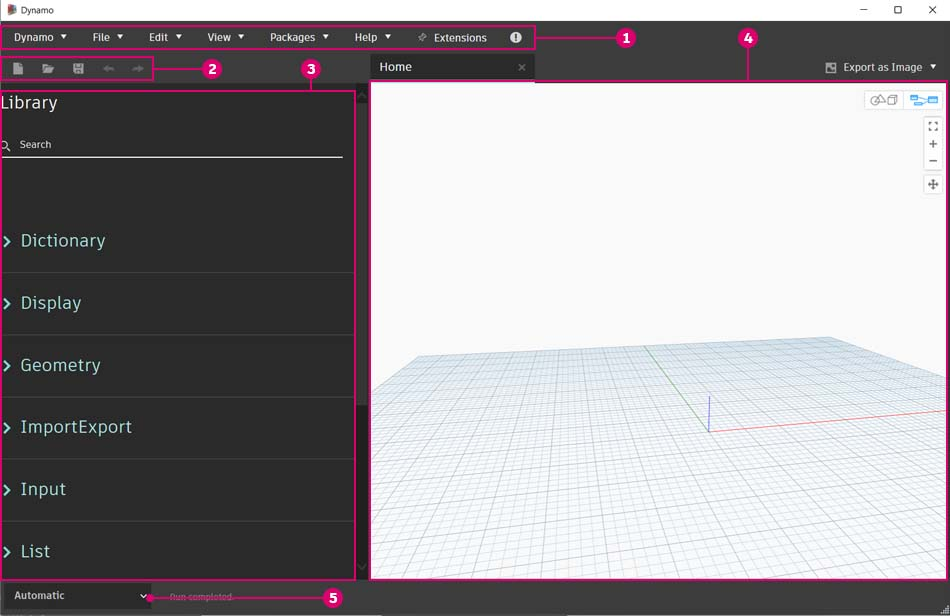
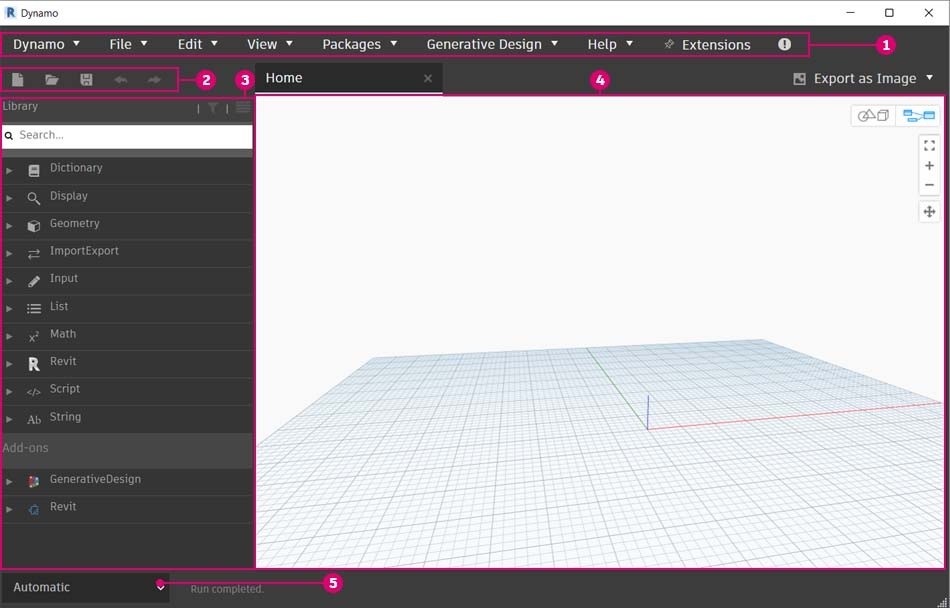
GitBook: [#22] No subject

diff --git a/2-2_the_dynamo_ui/README.md b/2-2_the_dynamo_ui/README.md
@@ -1,8 +1,8 @@
 # User Interface
 
-### UI Overview
+### User Interface Overview
 
-The User Interface (UI) for Dynamo is organized into five main regions. We will briefly cover the overview here and further explain the Workspace and Library in following sections.
+The User Interface (UI) for Dynamo is organized into five main regions. We will briefly cover the overview here and further explain the Workspace and Library in the following sections.
 
 ![](<../.gitbook/assets/user interface - ui (2).jpg>)
 
@@ -14,53 +14,35 @@ The User Interface (UI) for Dynamo is organized into five main regions. We will 
 
 ### Menus
 
-![](<../.gitbook/assets/user interface - menu.jpg>)
-
-_<mark style="color:red;">(Update screenshot when new Dynamo version available in Revit)</mark>_
+![](<../.gitbook/assets/user interface - menu (1).jpg>)
 
 Here are Menus for basic functionality of the Dynamo application. Like most Windows software, the first two menus related to managing files, operations for selection and content editing. The remaining menus are more specific to Dynamo.
 
-#### Settings
+#### Dynamo Menus
 
-From geometric to user settings, these options can be found in the **Settings** menu. Here you can opt in or out for sharing your user data to improve Dynamo as well as define the application's decimal point precision and geometry render quality.
+General info and settings can be found on the **Dynamo** drop down menu.&#x20;
 
-![](../.gitbook/assets/image.png)
+![](<../.gitbook/assets/user interface - dynamo menu.jpg>)
 
-_<mark style="color:red;">(Update screenshot when new Dynamo version available in Revit)</mark>_
-
-> 1. Enabling Reporting - Options for sharing user data to improve Dynamo.
-> 2. Show Run Preview - Preview the execution state of your graph. Nodes scheduled for execution will be highlighted in your graph.
-> 3. Number Format Options - Change the document settings for decimals.
-> 4. Render Precision - Raise or lower the document render quality.
-> 5. Geometry Scaling - Select range of geometry you are working on.
-> 6. Isolate Selected Geometry - Isolated background geometry based on your node selection.
-> 7. Show/Hide Geometry Edges - Toggle 3D geometry edges.
-> 8. Show/Hide Preview Bubbles - Toggle data preview bubbles below nodes.
-> 9. Manage Node and Package Paths - Manage file paths to make nodes and packages show up in the Library.
-> 10. Enabling Experimental Features - Use beta features new in Dynamo.
+> 1. About - Find out the Dynamo version installed on your machine.
+> 2. Agreement to Collect Usability Data - This allows you to opt-in or out for sharing your user data to improve Dynamo.
+> 3. Preferences -  Includes settings such as define the application's decimal point precision and geometry render quality.
+> 4. Exit Dynamo
 
 #### Help
 
 If you're stuck, check out the **Help** Menu. You may access one of the Dynamo reference websites through your internet browser.
 
-Check the version of Dynamo installed and whether it is up to date through the **About** option.
-
-_<mark style="color:red;">(Check latest Revit Dynamo version, About probably moved to First item on menu)</mark>_
-
-Here are the list of options available through the Help menu.
+![](<../.gitbook/assets/user interface - help menu.jpg>)
 
 > 1. Getting Started - A brief introduction to using Dynamo.
-> 2. Samples - Reference example files.
-> 3. Open Dynamo Dictionary - Resource with documentation on all nodes.
-> 4. Report A Bug - Open an Issue on GitHub.
-> 5. Go To Project Website - View the Dynamo Project on GitHub.
-> 6. Go To Project Wiki - Visit the wiki for learning about development using the Dynamo API, supporting libraries and tools.
+> 2. Interactive Guides -&#x20;
+> 3. Samples - Reference example files.
+> 4. Dynamo Dictionary - Resource with documentation on all nodes.
+> 5. Dynamo Website - View the Dynamo Project on GitHub.
+> 6. Dynamo Project Wiki - Visit the wiki for learning about development using the Dynamo API, supporting libraries and tools.
 > 7. Display Start Page - Return to the Dynamo start page when within a document.
-> 8. About - Dynamo Version data
-
-![](../.gitbook/assets/image.png)
-
-_<mark style="color:red;">(Update screenshot when new Dynamo version available in Revit)</mark>_
+> 8. Report A Bug - Open an Issue on GitHub.
 
 ### Toolbar
 
@@ -77,7 +59,7 @@ Dynamo's Toolbar contains a series of buttons for quick access to working with f
 
 The Dynamo Library is a collection of functional libraries, each Library containing Nodes grouped by Category. It consists basic libraries which are added during default installation of Dynamo, as we continue to introduce its usage, we will demonstrate how to extend the base functionality with Custom Nodes and additional Packages. The [3-3\_dynamo\_libraries.md](3-3\_dynamo\_libraries.md "mention") section will cover a more detailed guidance on using it.
 
-![](<../.gitbook/assets/user interface - library.gif>)
+![](<../.gitbook/assets/user interface - library (1).gif>)
 
 ### Workspace
 

diff --git a/2_setup_for_dynamo/README.md b/2_setup_for_dynamo/README.md
@@ -10,16 +10,18 @@ Dynamo is an active open-source development project. For a list of software that
 
 Dynamo comes pre-installed with software such as **Revit3D**, **FormIt**, **Civil3D** and etc.
 
-To start using, launch it from your toolbar panel. Depends on which software you are using, the launch icon can usually be found from the Menu > Manage Tab.
+To start using, launch it from your toolbar panel. Depends on which software you are using, the launch icon can usually be found from the Menu > **Manage** Tab. Click on Dynamo icon ![](../.gitbook/assets/dynamoCore-halfSize.png) to launch it.
 
-_<mark style="color:red;">(GIF for launching Dynamo from Revit)</mark>_
+![](<../.gitbook/assets/launch dynamo from revit.jpg>)
 
-For more guidance on using Dynamo with a specific software, we recommend referring to these sections.
+![](<../.gitbook/assets/setup for dynamo - launch dynamo.gif>)
+
+For more guidance on using Dynamo with specific software, we recommend referring to these sections.
 
 * [8\_dynamo-for-revit](../8\_dynamo-for-revit/ "mention")
 * [dynamo-for-formit.md](../dynamo-for-formit.md "mention")
 
-If you plan to use Dynamo as a standalone application. Continue reading for guidance on downloading the Sandbox.
+If you would like to use Dynamo as a standalone application. Continue reading for guidance on downloading the Sandbox.
 
 ### Get Dynamo Sandbox
 
